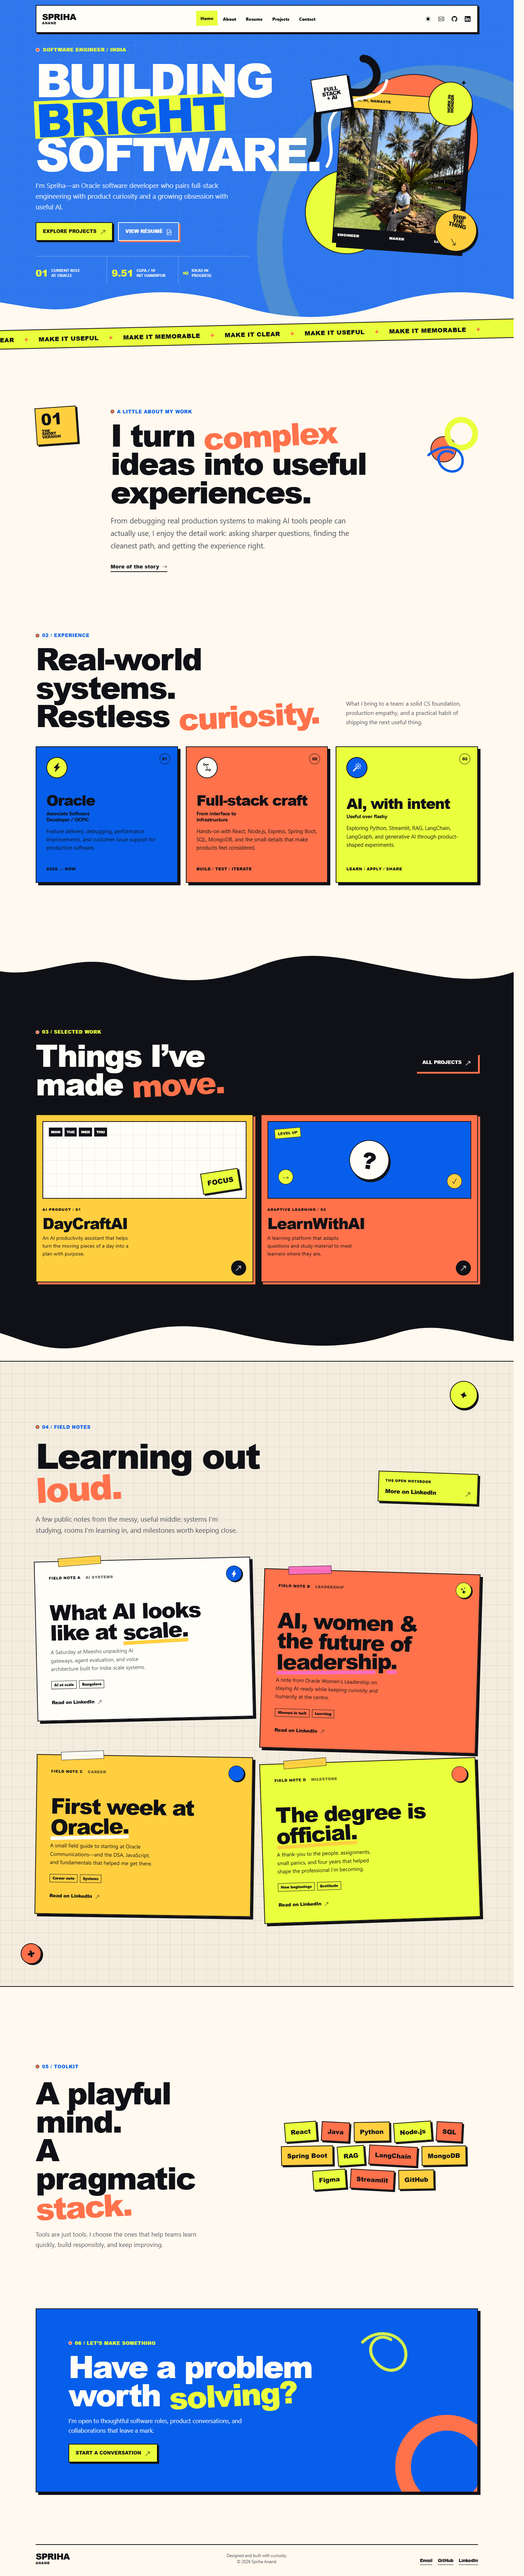
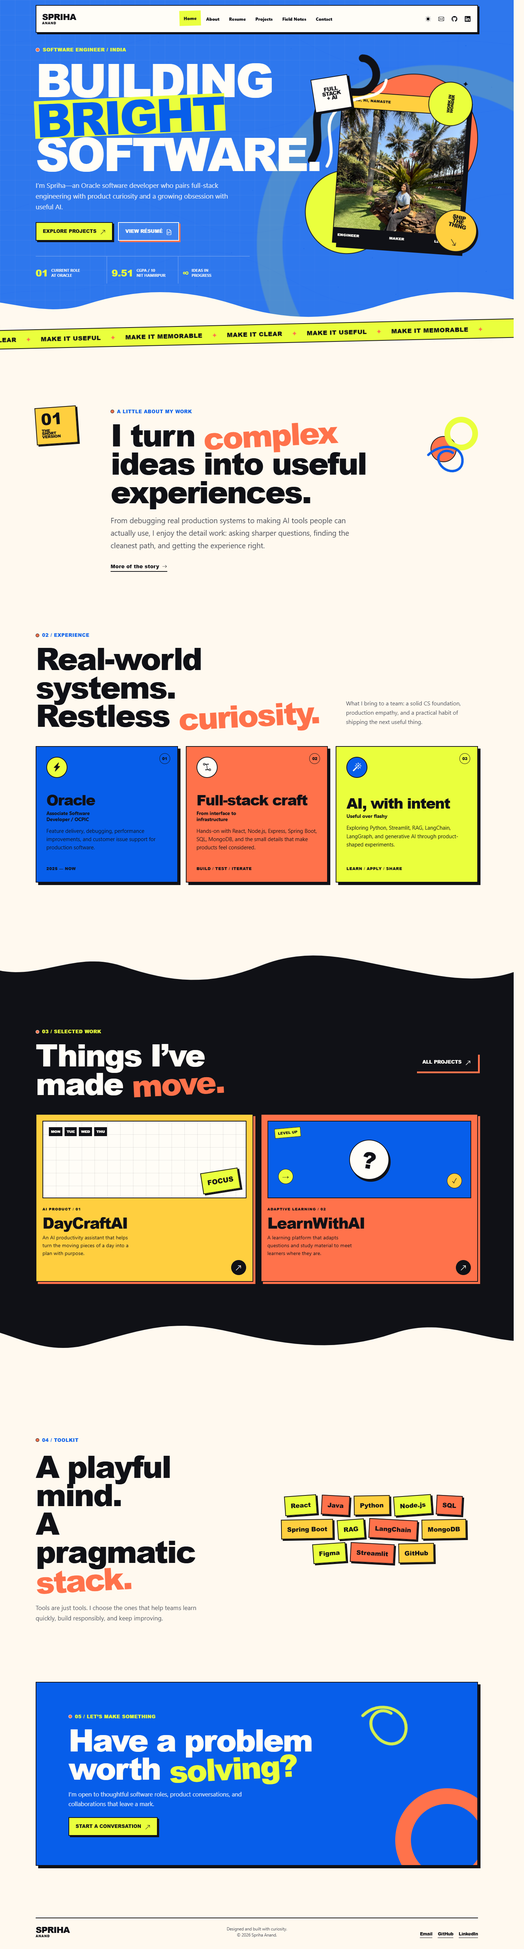
Move field notes to dedicated page

diff --git a/field-notes.html b/field-notes.html
@@ -1,0 +1,151 @@
+<!DOCTYPE html>
+<html lang="en">
+
+<head>
+    <meta charset="utf-8">
+    <meta content="width=device-width, initial-scale=1.0" name="viewport">
+
+    <title>Field Notes | Spriha Anand</title>
+    <meta content="Selected public notes by Spriha Anand on AI systems, leadership, career, and learning." name="description">
+    <meta content="Spriha Anand, Field Notes, LinkedIn, AI systems, leadership, career" name="keywords">
+    <script>
+        (() => {
+            try {
+                const savedTheme = localStorage.getItem('theme');
+                const prefersDark = window.matchMedia && window.matchMedia('(prefers-color-scheme: dark)').matches;
+                if (savedTheme === 'dark' || (!savedTheme && prefersDark)) {
+                    document.documentElement.setAttribute('data-theme', 'dark');
+                }
+            } catch (error) {
+                // Theme preference is optional.
+            }
+        })();
+    </script>
+
+    <link href="assets/img/favicon.png" rel="icon">
+    <link href="assets/img/apple-touch-icon.png" rel="apple-touch-icon">
+    <link href="assets/vendor/aos/aos.css" rel="stylesheet">
+    <link href="assets/vendor/bootstrap/css/bootstrap.min.css" rel="stylesheet">
+    <link href="assets/vendor/bootstrap-icons/bootstrap-icons.css" rel="stylesheet">
+    <link href="assets/vendor/boxicons/css/boxicons.min.css" rel="stylesheet">
+    <link href="assets/vendor/glightbox/css/glightbox.min.css" rel="stylesheet">
+    <link href="assets/vendor/swiper/swiper-bundle.min.css" rel="stylesheet">
+    <link href="assets/css/style.css" rel="stylesheet">
+</head>
+
+<body class="inner-page field-notes-page">
+    <header id="header" class="fixed-top">
+        <div class="nav-shell">
+            <a class="brand" href="index.html" aria-label="Spriha Anand home"><span>SPRIHA</span><small>ANAND</small></a>
+
+            <nav id="navbar" class="navbar" aria-label="Primary navigation">
+                <ul>
+                    <li><a href="index.html">Home</a></li>
+                    <li><a href="about.html">About</a></li>
+                    <li><a href="resume.html">Resume</a></li>
+                    <li><a href="services.html">Projects</a></li>
+                    <li><a class="active" href="field-notes.html" aria-current="page">Field Notes</a></li>
+                    <li><a href="contact.html">Contact</a></li>
+                </ul>
+                <button class="mobile-nav-toggle" type="button" aria-label="Toggle navigation"><i class="bi bi-list"></i></button>
+            </nav>
+
+            <div class="header-social-links">
+                <button class="theme-toggle" type="button" aria-label="Toggle dark mode" aria-pressed="false">
+                    <span class="theme-toggle-track"><i class="bi bi-brightness-high-fill"></i><i class="bi bi-moon-stars-fill"></i></span>
+                </button>
+                <a href="mailto:sprihaanand@gmail.com" class="email" aria-label="Email Spriha"><i class="bi bi-envelope"></i></a>
+                <a href="https://github.com/SprihaAnand" class="github" aria-label="Spriha on GitHub"><i class="bi bi-github"></i></a>
+                <a href="https://www.linkedin.com/in/spriha-anand-818672227/" class="linkedin" aria-label="Spriha on LinkedIn"><i class="bi bi-linkedin"></i></a>
+            </div>
+        </div>
+    </header>
+
+    <main id="main">
+        <section id="field-notes" class="field-notes" aria-labelledby="field-notes-title">
+            <div class="container">
+                <div class="field-notes-heading" data-aos="fade-up">
+                    <div>
+                        <span class="section-kicker">FIELD NOTES</span>
+                        <h1 id="field-notes-title">Learning out <span>loud.</span></h1>
+                    </div>
+                    <a class="field-notes-profile" href="https://www.linkedin.com/in/spriha-anand-818672227/" target="_blank" rel="noopener noreferrer" aria-label="Visit Spriha Anand's LinkedIn profile in a new tab">
+                        <span>THE OPEN NOTEBOOK</span>
+                        <strong>More on LinkedIn <i class="bi bi-arrow-up-right" aria-hidden="true"></i></strong>
+                    </a>
+                </div>
+
+                <p class="field-notes-intro" data-aos="fade-up">A few public notes from the messy, useful middle: systems I’m studying, rooms I’m learning in, and milestones worth keeping close.</p>
+
+                <div class="field-notes-wall">
+                    <article class="field-note-reveal" data-aos="fade-up" data-aos-delay="40">
+                        <a class="field-note-card field-note-card--systems" href="https://www.linkedin.com/feed/update/urn:li:activity:7418937163293155329/" target="_blank" rel="noopener noreferrer" aria-label="Read the LinkedIn field note: What AI looks like at scale. Opens in a new tab.">
+                            <span class="field-note-mark" aria-hidden="true"><i class="bi bi-lightning-charge-fill"></i></span>
+                            <span class="field-note-meta"><span>FIELD NOTE A</span><span>AI SYSTEMS</span></span>
+                            <h2>What AI looks like at <em>scale.</em></h2>
+                            <p>A Saturday at Meesho unpacking AI gateways, agent evaluation, and voice architecture built for India-scale systems.</p>
+                            <span class="field-note-tags" aria-label="Topics"><span>AI at scale</span><span>Bangalore</span></span>
+                            <span class="field-note-link">Read on LinkedIn <i class="bi bi-arrow-up-right" aria-hidden="true"></i></span>
+                        </a>
+                    </article>
+
+                    <article class="field-note-reveal" data-aos="fade-up" data-aos-delay="110">
+                        <a class="field-note-card field-note-card--leadership" href="https://www.linkedin.com/feed/update/urn:li:activity:7390354087050960897/" target="_blank" rel="noopener noreferrer" aria-label="Read the LinkedIn field note: AI, women and the future of leadership. Opens in a new tab.">
+                            <span class="field-note-mark" aria-hidden="true"><i class="bi bi-stars"></i></span>
+                            <span class="field-note-meta"><span>FIELD NOTE B</span><span>LEADERSHIP</span></span>
+                            <h2>AI, women &amp; the future of <em>leadership.</em></h2>
+                            <p>A note from Oracle Women’s Leadership on staying AI-ready while keeping curiosity and humanity at the centre.</p>
+                            <span class="field-note-tags" aria-label="Topics"><span>Women in tech</span><span>Learning</span></span>
+                            <span class="field-note-link">Read on LinkedIn <i class="bi bi-arrow-up-right" aria-hidden="true"></i></span>
+                        </a>
+                    </article>
+
+                    <article class="field-note-reveal" data-aos="fade-up" data-aos-delay="75">
+                        <a class="field-note-card field-note-card--oracle" href="https://lnkd.in/p/d9YgHY5Y" target="_blank" rel="noopener noreferrer" aria-label="Read the LinkedIn field note: First week at Oracle. Opens in a new tab.">
+                            <span class="field-note-mark" aria-hidden="true"><i class="bi bi-braces-asterisk"></i></span>
+                            <span class="field-note-meta"><span>FIELD NOTE C</span><span>CAREER</span></span>
+                            <h2>First week at <em>Oracle.</em></h2>
+                            <p>A small field guide to starting at Oracle Communications—and the DSA, JavaScript, and fundamentals that helped me get there.</p>
+                            <span class="field-note-tags" aria-label="Topics"><span>Career note</span><span>Systems</span></span>
+                            <span class="field-note-link">Read on LinkedIn <i class="bi bi-arrow-up-right" aria-hidden="true"></i></span>
+                        </a>
+                    </article>
+
+                    <article class="field-note-reveal" data-aos="fade-up" data-aos-delay="145">
+                        <a class="field-note-card field-note-card--milestone" href="https://lnkd.in/p/d48fc-xh" target="_blank" rel="noopener noreferrer" aria-label="Read the LinkedIn field note: The degree is official. Opens in a new tab.">
+                            <span class="field-note-mark" aria-hidden="true"><i class="bi bi-balloon-heart-fill"></i></span>
+                            <span class="field-note-meta"><span>FIELD NOTE D</span><span>MILESTONE</span></span>
+                            <h2>The degree is <em>official.</em></h2>
+                            <p>A thank-you to the people, assignments, small panics, and four years that helped shape the professional I’m becoming.</p>
+                            <span class="field-note-tags" aria-label="Topics"><span>New beginnings</span><span>Gratitude</span></span>
+                            <span class="field-note-link">Read on LinkedIn <i class="bi bi-arrow-up-right" aria-hidden="true"></i></span>
+                        </a>
+                    </article>
+                </div>
+            </div>
+        </section>
+    </main>
+
+    <footer id="footer">
+        <div class="container">
+            <div class="copyright">
+                &copy; Copyright <strong><span>Spriha</span></strong>. All Rights Reserved
+            </div>
+        </div>
+    </footer>
+
+    <div id="preloader" aria-hidden="true"><span>LOADING / GOOD THINGS</span></div>
+    <a href="#" class="back-to-top d-flex align-items-center justify-content-center" aria-label="Back to top"><i class="bi bi-arrow-up-short"></i></a>
+
+    <script src="assets/vendor/purecounter/purecounter.js"></script>
+    <script src="assets/vendor/aos/aos.js"></script>
+    <script src="assets/vendor/bootstrap/js/bootstrap.bundle.min.js"></script>
+    <script src="assets/vendor/glightbox/js/glightbox.min.js"></script>
+    <script src="assets/vendor/isotope-layout/isotope.pkgd.min.js"></script>
+    <script src="assets/vendor/swiper/swiper-bundle.min.js"></script>
+    <script src="assets/vendor/waypoints/noframework.waypoints.js"></script>
+    <script src="assets/vendor/php-email-form/validate.js"></script>
+    <script src="assets/js/main.js"></script>
+</body>
+
+</html>

diff --git a/index.html b/index.html
@@ -46,6 +46,7 @@
                     <li><a href="about.html">About</a></li>
                     <li><a href="resume.html">Resume</a></li>
                     <li><a href="services.html">Projects</a></li>
+                    <li><a href="field-notes.html">Field Notes</a></li>
                     <li><a href="contact.html">Contact</a></li>
                 </ul>
                 <button class="mobile-nav-toggle" type="button" aria-label="Toggle navigation"><i class="bi bi-list"></i></button>
@@ -177,72 +178,9 @@
             <div class="project-swell project-swell-bottom" aria-hidden="true"><svg viewBox="0 0 1440 100" preserveAspectRatio="none"><path d="M0 18c115-26 179 82 293 43S458 0 572 33s203 46 310 2 169 28 286 19 174-30 272 4V100H0Z"></path></svg></div>
         </section>
 
-        <section id="field-notes" class="field-notes" aria-labelledby="field-notes-title">
-            <div class="container">
-                <div class="field-notes-heading" data-aos="fade-up">
-                    <div>
-                        <span class="section-kicker">04 / FIELD NOTES</span>
-                        <h2 id="field-notes-title">Learning out <span>loud.</span></h2>
-                    </div>
-                    <a class="field-notes-profile" href="https://www.linkedin.com/in/spriha-anand-818672227/" target="_blank" rel="noopener noreferrer" aria-label="Visit Spriha Anand's LinkedIn profile in a new tab">
-                        <span>THE OPEN NOTEBOOK</span>
-                        <strong>More on LinkedIn <i class="bi bi-arrow-up-right" aria-hidden="true"></i></strong>
-                    </a>
-                </div>
-
-                <p class="field-notes-intro" data-aos="fade-up">A few public notes from the messy, useful middle: systems I’m studying, rooms I’m learning in, and milestones worth keeping close.</p>
-
-                <div class="field-notes-wall">
-                    <article class="field-note-reveal" data-aos="fade-up" data-aos-delay="40">
-                        <a class="field-note-card field-note-card--systems" href="https://www.linkedin.com/feed/update/urn:li:activity:7418937163293155329/" target="_blank" rel="noopener noreferrer" aria-label="Read the LinkedIn field note: What AI looks like at scale. Opens in a new tab.">
-                            <span class="field-note-mark" aria-hidden="true"><i class="bi bi-lightning-charge-fill"></i></span>
-                            <span class="field-note-meta"><span>FIELD NOTE A</span><span>AI SYSTEMS</span></span>
-                            <h3>What AI looks like at <em>scale.</em></h3>
-                            <p>A Saturday at Meesho unpacking AI gateways, agent evaluation, and voice architecture built for India-scale systems.</p>
-                            <span class="field-note-tags" aria-label="Topics"><span>AI at scale</span><span>Bangalore</span></span>
-                            <span class="field-note-link">Read on LinkedIn <i class="bi bi-arrow-up-right" aria-hidden="true"></i></span>
-                        </a>
-                    </article>
-
-                    <article class="field-note-reveal" data-aos="fade-up" data-aos-delay="110">
-                        <a class="field-note-card field-note-card--leadership" href="https://www.linkedin.com/feed/update/urn:li:activity:7390354087050960897/" target="_blank" rel="noopener noreferrer" aria-label="Read the LinkedIn field note: AI, women and the future of leadership. Opens in a new tab.">
-                            <span class="field-note-mark" aria-hidden="true"><i class="bi bi-stars"></i></span>
-                            <span class="field-note-meta"><span>FIELD NOTE B</span><span>LEADERSHIP</span></span>
-                            <h3>AI, women &amp; the future of <em>leadership.</em></h3>
-                            <p>A note from Oracle Women’s Leadership on staying AI-ready while keeping curiosity and humanity at the centre.</p>
-                            <span class="field-note-tags" aria-label="Topics"><span>Women in tech</span><span>Learning</span></span>
-                            <span class="field-note-link">Read on LinkedIn <i class="bi bi-arrow-up-right" aria-hidden="true"></i></span>
-                        </a>
-                    </article>
-
-                    <article class="field-note-reveal" data-aos="fade-up" data-aos-delay="75">
-                        <a class="field-note-card field-note-card--oracle" href="https://lnkd.in/p/d9YgHY5Y" target="_blank" rel="noopener noreferrer" aria-label="Read the LinkedIn field note: First week at Oracle. Opens in a new tab.">
-                            <span class="field-note-mark" aria-hidden="true"><i class="bi bi-braces-asterisk"></i></span>
-                            <span class="field-note-meta"><span>FIELD NOTE C</span><span>CAREER</span></span>
-                            <h3>First week at <em>Oracle.</em></h3>
-                            <p>A small field guide to starting at Oracle Communications—and the DSA, JavaScript, and fundamentals that helped me get there.</p>
-                            <span class="field-note-tags" aria-label="Topics"><span>Career note</span><span>Systems</span></span>
-                            <span class="field-note-link">Read on LinkedIn <i class="bi bi-arrow-up-right" aria-hidden="true"></i></span>
-                        </a>
-                    </article>
-
-                    <article class="field-note-reveal" data-aos="fade-up" data-aos-delay="145">
-                        <a class="field-note-card field-note-card--milestone" href="https://lnkd.in/p/d48fc-xh" target="_blank" rel="noopener noreferrer" aria-label="Read the LinkedIn field note: The degree is official. Opens in a new tab.">
-                            <span class="field-note-mark" aria-hidden="true"><i class="bi bi-balloon-heart-fill"></i></span>
-                            <span class="field-note-meta"><span>FIELD NOTE D</span><span>MILESTONE</span></span>
-                            <h3>The degree is <em>official.</em></h3>
-                            <p>A thank-you to the people, assignments, small panics, and four years that helped shape the professional I’m becoming.</p>
-                            <span class="field-note-tags" aria-label="Topics"><span>New beginnings</span><span>Gratitude</span></span>
-                            <span class="field-note-link">Read on LinkedIn <i class="bi bi-arrow-up-right" aria-hidden="true"></i></span>
-                        </a>
-                    </article>
-                </div>
-            </div>
-        </section>
-
         <section class="home-stack">
             <div class="container stack-layout" data-aos="fade-up">
-                <div class="stack-copy"><span class="section-kicker">05 / TOOLKIT</span><h2>A playful mind.<br>A pragmatic <span>stack.</span></h2><p>Tools are just tools. I choose the ones that help teams learn quickly, build responsibly, and keep improving.</p></div>
+                <div class="stack-copy"><span class="section-kicker">04 / TOOLKIT</span><h2>A playful mind.<br>A pragmatic <span>stack.</span></h2><p>Tools are just tools. I choose the ones that help teams learn quickly, build responsibly, and keep improving.</p></div>
                 <div class="stack-cloud" aria-label="Technical skills">
                     <span>React</span><span>Java</span><span>Python</span><span>Node.js</span><span>SQL</span><span>Spring Boot</span><span>RAG</span><span>LangChain</span><span>MongoDB</span><span>Figma</span><span>Streamlit</span><span>GitHub</span>
                 </div>
@@ -253,7 +191,7 @@
             <div class="container" data-aos="zoom-in">
                 <div class="contact-cta-card">
                     <div class="cta-scribble" aria-hidden="true"><svg viewBox="0 0 160 160"><path d="M19 95c20-56 97-66 118-17 17 40-23 74-69 48-41-22-27-73 16-68" /></svg></div>
-                    <span class="section-kicker">06 / LET’S MAKE SOMETHING</span>
+                    <span class="section-kicker">05 / LET’S MAKE SOMETHING</span>
                     <h2>Have a problem worth <span>solving?</span></h2>
                     <p>I’m open to thoughtful software roles, product conversations, and collaborations that leave a mark.</p>
                     <a href="contact.html" class="button button-lime">Start a conversation <i class="bi bi-arrow-up-right"></i></a>

diff --git a/assets/css/style.css b/assets/css/style.css
@@ -1481,13 +1481,13 @@ body:not(.home-page) section {
   margin-bottom: 30px;
 }
 
-.field-notes-heading h2 {
+.field-notes-heading :is(h1, h2) {
   max-width: 10ch;
   margin: 8px 0 0;
   font-size: clamp(3rem, 6.8vw, 6.3rem);
 }
 
-.field-notes-heading h2 span {
+.field-notes-heading :is(h1, h2) span {
   display: inline-block;
   color: var(--coral);
   transform: rotate(-3deg);
@@ -1670,7 +1670,7 @@ body:not(.home-page) section {
   opacity: 0.68;
 }
 
-.field-note-card h3 {
+.field-note-card :is(h2, h3) {
   max-width: 11ch;
   margin: clamp(38px, 5vw, 61px) 0 17px;
   color: var(--note-ink);
@@ -1678,7 +1678,7 @@ body:not(.home-page) section {
   line-height: 0.92;
 }
 
-.field-note-card h3 em {
+.field-note-card :is(h2, h3) em {
   display: inline-block;
   color: var(--note-ink);
   font-style: normal;
@@ -1869,6 +1869,17 @@ body:not(.home-page) section {
 }
 
 /* Inner pages */
+
+body.field-notes-page.inner-page #main {
+  min-height: 0;
+  padding: 0;
+}
+
+body.field-notes-page.inner-page section.field-notes {
+  min-height: calc(100vh - 90px);
+  padding: clamp(130px, 14vw, 176px) 0 clamp(100px, 13vw, 170px);
+  border-top: 0;
+}
 
 body:not(.home-page) .panel {
   background: var(--paper);
@@ -2947,6 +2958,10 @@ body:not(.home-page) #footer .copyright {
     background-size: 27px 27px;
   }
 
+  body.field-notes-page.inner-page section.field-notes {
+    padding: 104px 0;
+  }
+
   .field-notes::before {
     top: 21px;
     right: 20px;
@@ -2963,7 +2978,7 @@ body:not(.home-page) #footer .copyright {
     margin-bottom: 25px;
   }
 
-  .field-notes-heading h2 {
+  .field-notes-heading :is(h1, h2) {
     font-size: clamp(3rem, 14vw, 4.7rem);
   }
 
@@ -2994,7 +3009,7 @@ body:not(.home-page) #footer .copyright {
     transform: none;
   }
 
-  .field-note-card h3 {
+  .field-note-card :is(h2, h3) {
     margin-top: 43px;
     font-size: clamp(2.3rem, 12vw, 3.65rem);
   }

diff --git a/about.html b/about.html
@@ -44,6 +44,7 @@
                     <li><a class="active" href="about.html">About</a></li>
                     <li><a href="resume.html">Resume</a></li>
                     <li><a href="services.html">Projects</a></li>
+                    <li><a href="field-notes.html">Field Notes</a></li>
                     <li><a href="contact.html">Contact</a></li>
                 </ul>
                 <button class="mobile-nav-toggle" type="button" aria-label="Toggle navigation"><i class="bi bi-list"></i></button>

diff --git a/resume.html b/resume.html
@@ -44,6 +44,7 @@
                     <li><a href="about.html">About</a></li>
                     <li><a class="active" href="resume.html">Resume</a></li>
                     <li><a href="services.html">Projects</a></li>
+                    <li><a href="field-notes.html">Field Notes</a></li>
                     <li><a href="contact.html">Contact</a></li>
                 </ul>
                 <button class="mobile-nav-toggle" type="button" aria-label="Toggle navigation"><i class="bi bi-list"></i></button>

diff --git a/services.html b/services.html
@@ -44,6 +44,7 @@
                     <li><a href="about.html">About</a></li>
                     <li><a href="resume.html">Resume</a></li>
                     <li><a class="active" href="services.html">Projects</a></li>
+                    <li><a href="field-notes.html">Field Notes</a></li>
                     <li><a href="contact.html">Contact</a></li>
                 </ul>
                 <button class="mobile-nav-toggle" type="button" aria-label="Toggle navigation"><i class="bi bi-list"></i></button>

diff --git a/contact.html b/contact.html
@@ -44,6 +44,7 @@
           <li><a href="about.html">About</a></li>
           <li><a href="resume.html">Resume</a></li>
           <li><a href="services.html">Projects</a></li>
+          <li><a href="field-notes.html">Field Notes</a></li>
           <li><a class="active" href="contact.html">Contact</a></li>
         </ul>
         <button class="mobile-nav-toggle" type="button" aria-label="Toggle navigation"><i class="bi bi-list"></i></button>

diff --git a/README.md b/README.md
@@ -13,7 +13,7 @@ The current visual system is an original “electric playground”: poster-scale
 - Motion that respects <code>prefers-reduced-motion</code>
 - Accessible interaction details including visible focus states, labelled navigation, and decorative motion kept out of the reading flow
 - Compact app-window previews for DayCraftAI and Rebooked, each linking straight to the full live project
-- A zine-style **Field Notes** wall for selected LinkedIn writing, with local summaries and direct post links instead of fragile embeds
+- A dedicated zine-style **Field Notes** page for selected LinkedIn writing, with local summaries and direct post links instead of fragile embeds
 - Mobile Field Notes cards stack cleanly without rotated layouts or horizontal scrolling
 - No build tool or package installation required
 
@@ -26,6 +26,10 @@ The current visual system is an original “electric playground”: poster-scale
 ### Home / Dark mode
 
 ![Dark desktop view of the homepage](assets/screenshots/portfolio-home-dark-desktop.png)
+
+### Field Notes / Desktop
+
+![Desktop view of the Field Notes page](assets/screenshots/portfolio-field-notes-desktop.png)
 
 ### Projects / Desktop
 
@@ -63,6 +67,7 @@ To stop the server, return to the terminal and press <kbd>Ctrl</kbd>+<kbd>C</kbd
 ├── about.html                 # Profile and background
 ├── resume.html                # Experience, skills, and résumé PDF
 ├── services.html              # Selected projects
+├── field-notes.html           # Public writing and learning notes
 ├── contact.html               # Contact details
 └── assets/
     ├── css/style.css           # Shared visual system and responsive styles
